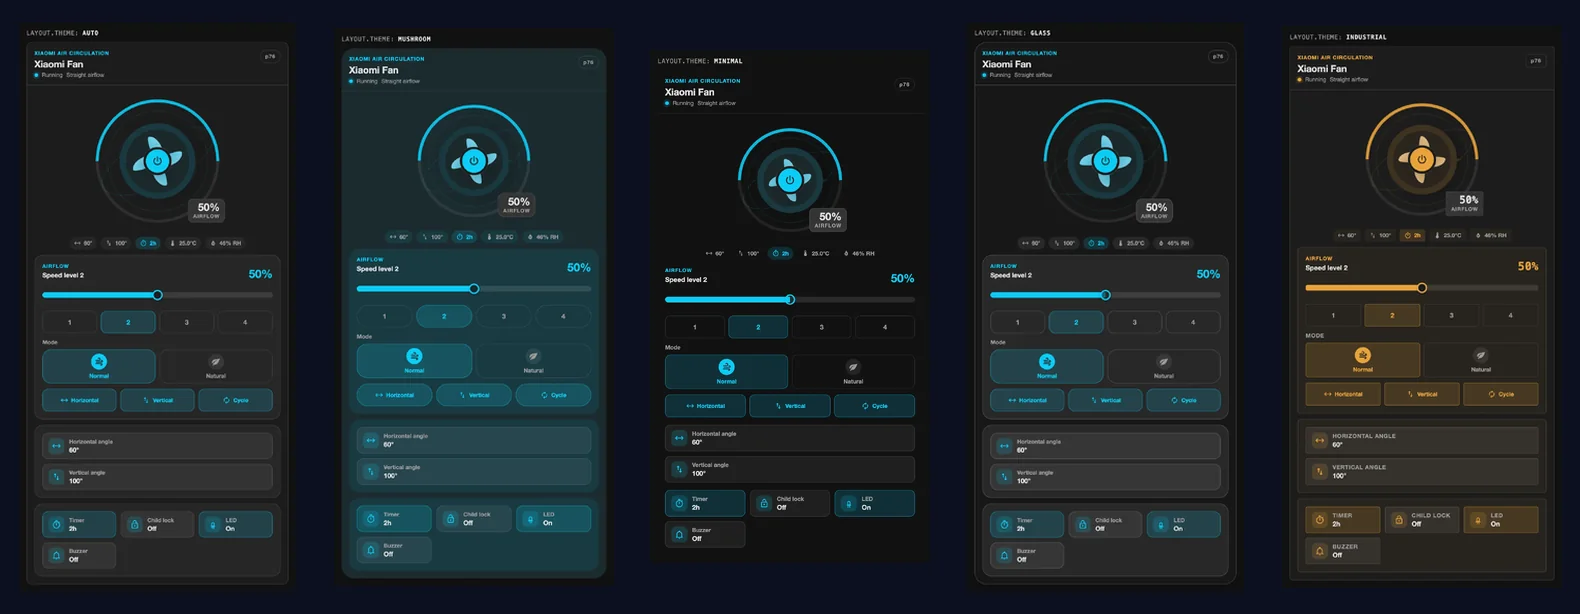
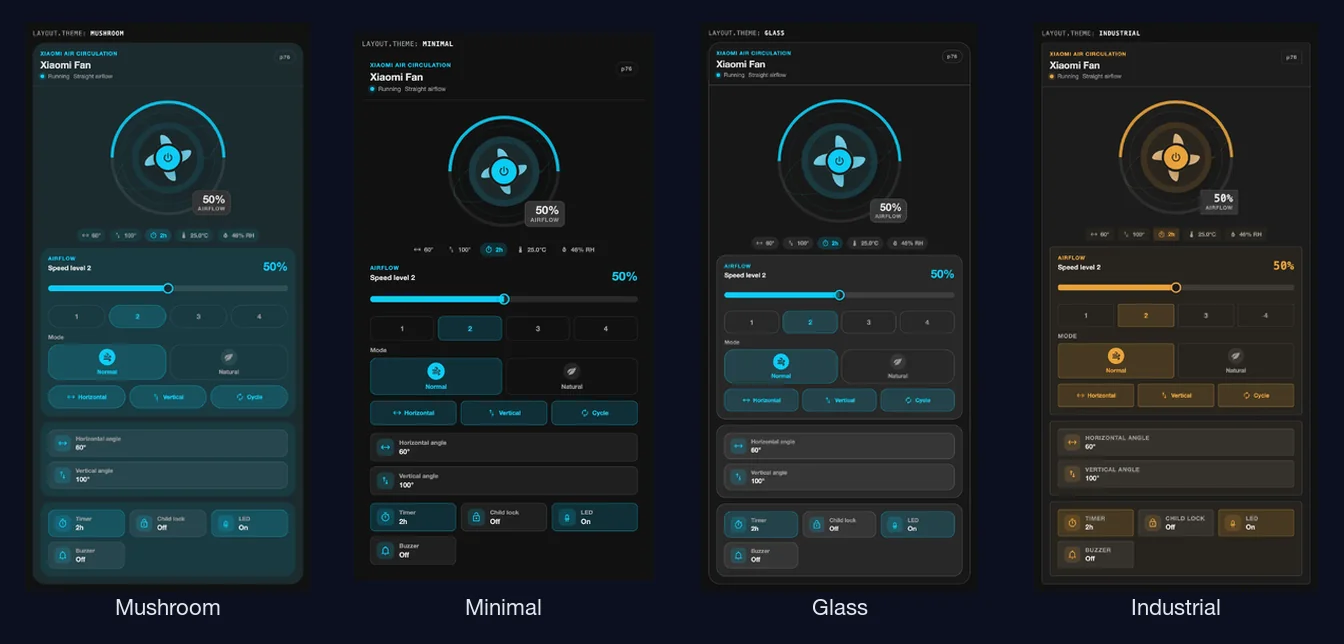
docs: refine README galleries

diff --git a/README.md b/README.md
@@ -41,17 +41,16 @@ Capability-aware. Five themes. Native visual editor. No telemetry.
 - **Private by design.** No telemetry, no analytics, no remote scripts, no
   direct device connection. Every action goes through Home Assistant.
 
-## Five themes, one card
+## Four themes, one card
 
 One option, `layout.theme`, changes the entire surface. Same entity, same state,
-same controls, five looks. The hero above is `auto`; the strip below shows all
-five in dark mode.
+same controls, four named looks. The hero above is `auto`; the strip below shows
+the named themes in dark mode.
 
-![The five themes shown side by side: auto, mushroom, minimal, glass, and industrial](https://raw.githubusercontent.com/mrwogu/xiaomi-smart-fan-card/main/docs/media/themes-gallery.webp)
+![The four named themes shown side by side: mushroom, minimal, glass, and industrial](https://raw.githubusercontent.com/mrwogu/xiaomi-smart-fan-card/main/docs/media/themes-gallery.webp)
 
 | Theme      | `layout.theme` | What changes                                                     |
 | ---------- | -------------- | ---------------------------------------------------------------- |
-| Auto       | `auto`         | Inherits your Home Assistant colors, radius, and shadow          |
 | Mushroom   | `mushroom`     | Soft tinted panels and pill controls                             |
 | Minimal    | `minimal`      | No borders, no shadow, content first                             |
 | Glass      | `glass`        | Translucent surface with backdrop blur                           |
@@ -62,7 +61,7 @@ text, background, and accent unless a theme deliberately claims one.
 
 ## Layouts that fit your dashboard
 
-![Eight layout variations shown in a fixed grid: control columns, density, order, narrow columns, tile, and position](https://raw.githubusercontent.com/mrwogu/xiaomi-smart-fan-card/main/docs/media/layouts-gallery.webp)
+![Eight layout variations shown in a readable three-column grid: control columns, density, order, narrow columns, tile, and position](https://raw.githubusercontent.com/mrwogu/xiaomi-smart-fan-card/main/docs/media/layouts-gallery.webp)
 
 | Layout option      | What changes                                                                                                                                              |
 | ------------------ | --------------------------------------------------------------------------------------------------------------------------------------------------------- |
